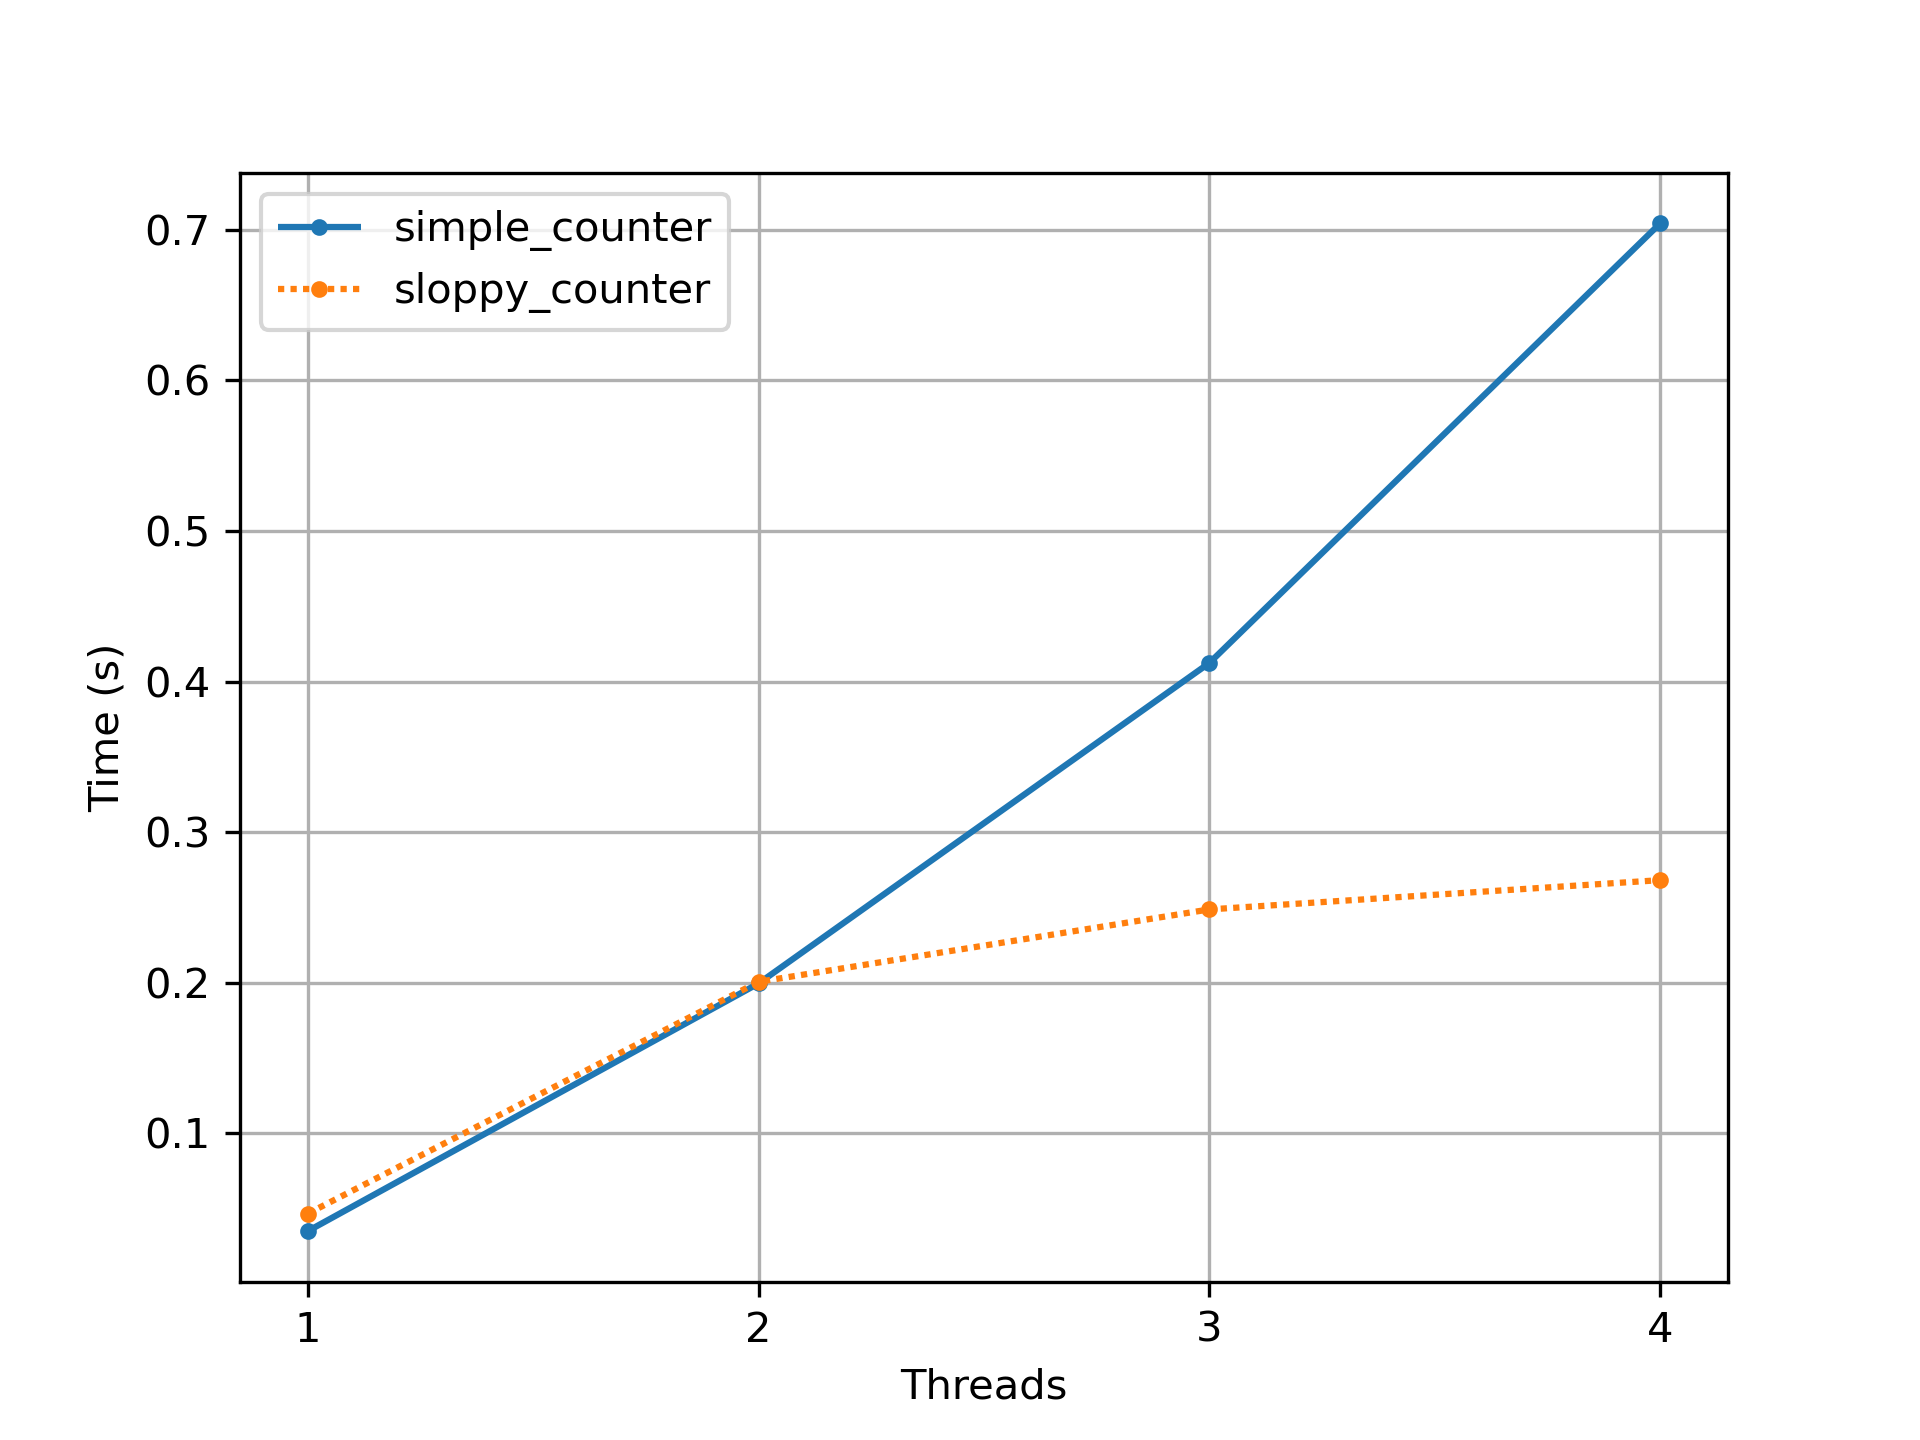
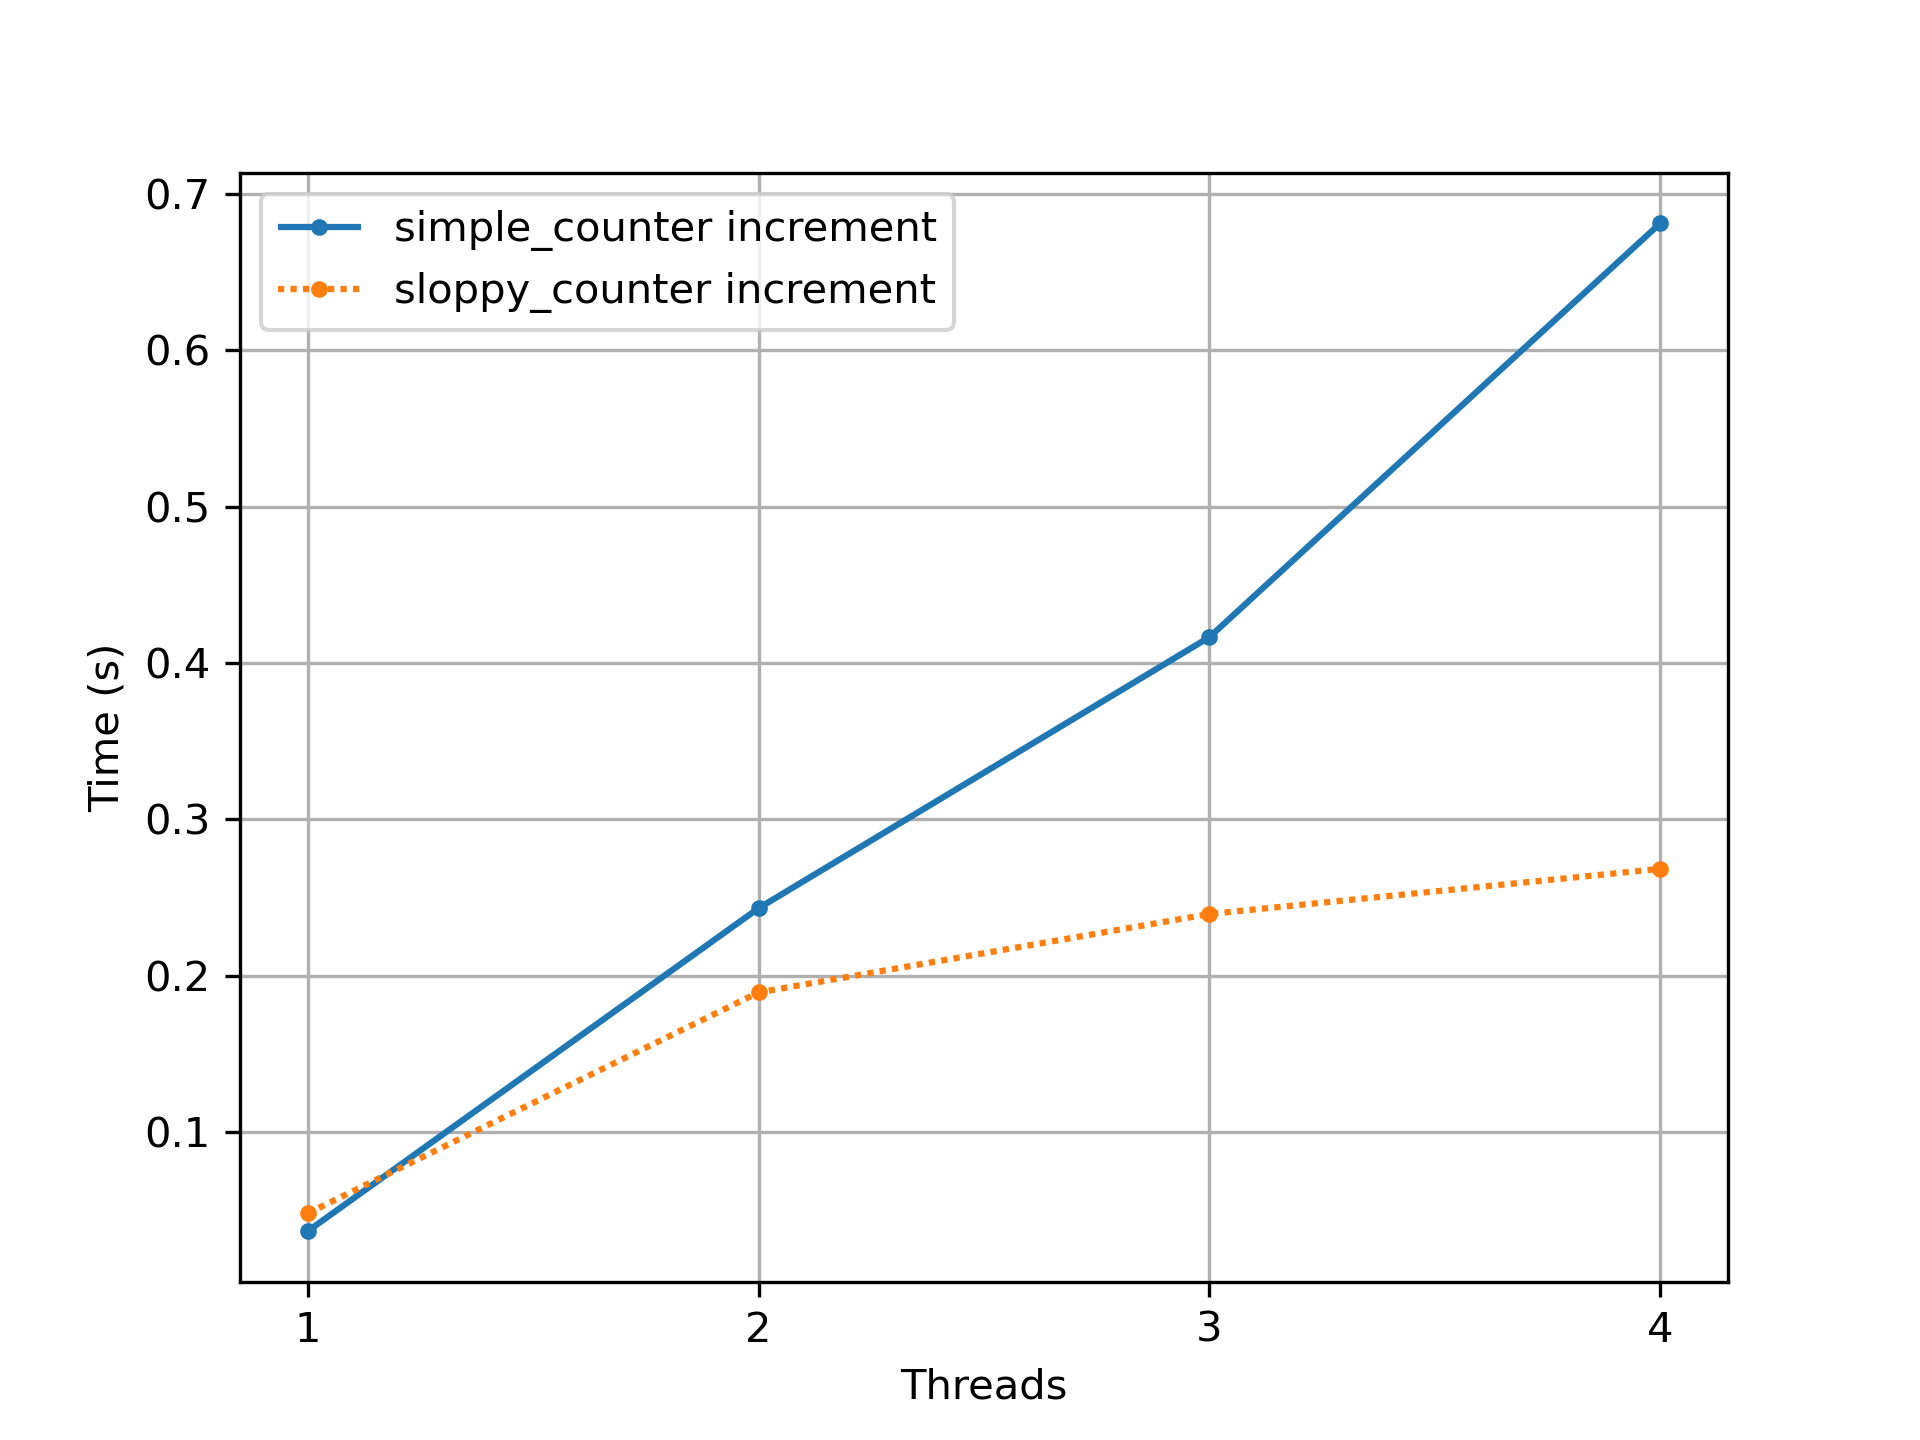
hw29: simple list time lookup + kwargs programs output

diff --git a/hw29-threads-locks-usage/simple_list.cpp b/hw29-threads-locks-usage/simple_list.cpp
@@ -55,9 +55,15 @@ private:
     int size_;
 };
 
-void worker(int threadID, SimpleList &list, int nloops) {
+void worker_insert(int threadID, SimpleList &list, int nloops) {
     for (int i = 0; i < nloops; ++i) {
         list.insert(i);
+    }
+}
+
+void worker_lookup(int threadID, SimpleList &list, int nloops) {
+    for (int i = 0; i < nloops; ++i) {
+        list.lookup(nloops - 11);
     }
 }
 
@@ -70,7 +76,13 @@ int main(int argc, char *argv[]) {
     auto nloops = std::stoi(argv[2]);
 
     SimpleList list;
-    auto elapsed_s = time_workers(nthreads, worker, std::ref(list), nloops);
-    std::cout << list.size() << " " << elapsed_s << std::endl;
+    auto elapsed = time_workers(nthreads, worker_insert, std::ref(list), nloops);
+    std::cout << "program=" << argv[0] << " op=insert"
+              << " nthreads=" << nthreads << " nloops=" << nloops
+              << " size=" << list.size() << " time=" << elapsed  << std::endl;
+    elapsed = time_workers(nthreads, worker_lookup, std::ref(list), nloops);
+    std::cout << "program=" << argv[0] << " op=lookup-10"
+              << " nthreads=" << nthreads << " nloops=" << nloops
+              << " size=" << list.size() << " time=" << elapsed  << std::endl;
     return 0;
 }

diff --git a/hw29-threads-locks-usage/plot_xthreads_ytime.py b/hw29-threads-locks-usage/plot_xthreads_ytime.py
@@ -6,20 +6,23 @@ from matplotlib import pyplot
 # retrieve data
 data = {}
 for line in sys.stdin:
-    line = line.split()
-    program = line[0]
-    nthreads = int(line[1])
-    result = float(line[3])
+    line = dict(kwarg.split('=') for kwarg in line.split())
+    program = f'{line["program"].split("/")[-1]} {line["op"]}'
+    nthreads = int(line['nthreads'])
+    time = float(line['time'])
+
     if program not in data:
         data[program] = {}
     if nthreads not in data[program]:
         data[program][nthreads] = []
-    data[program][nthreads].append(result)
+    data[program][nthreads].append(time)
+
+# sort by nthreads & average times
 for program, threads in data.items():
     data[program] = dict(sorted(threads.items()))
     data[program] = dict(
-        (thread, statistics.mean(results))
-        for thread, results in threads.items()
+        (thread, statistics.mean(times))
+        for thread, times in threads.items()
     )
 
 # plot data

diff --git a/hw29-threads-locks-usage/plot_xthreshold_ytime.py b/hw29-threads-locks-usage/plot_xthreshold_ytime.py
@@ -6,16 +6,19 @@ from matplotlib import pyplot
 # retrieve data
 data = {}
 for line in sys.stdin:
-    line = line.split()
-    threshold = int(line[0])
-    result = float(line[2])
+    line = dict(kwarg.split('=') for kwarg in line.split())
+    threshold = int(line['threshold'])
+    time = float(line['time'])
+
     if threshold not in data:
         data[threshold] = []
-    data[threshold].append(result)
+    data[threshold].append(time)
+
+# sort by threshold and average times
 data = dict(sorted(data.items()))
 data = dict(
-    (threshold, statistics.mean(results))
-    for threshold, results in data.items()
+    (threshold, statistics.mean(times))
+    for threshold, times in data.items()
 )
 
 # plot data

diff --git a/hw29-threads-locks-usage/sloppy_counter.cpp b/hw29-threads-locks-usage/sloppy_counter.cpp
@@ -61,10 +61,10 @@ int main(int argc, char *argv[]) {
     auto threshold = argc >= 4 ? std::stoi(argv[3]) : 1024;
 
     SloppyCounter counter(ncpus, threshold);
-    auto elapsed_s = time_workers(
-        nthreads, worker, ncpus, std::ref(counter), nloops
-    );
-
-    std::cout << counter.get() << " " << elapsed_s << std::endl;
+    auto elapsed = time_workers(nthreads, worker, ncpus, std::ref(counter), nloops);
+    std::cout << "program=" << argv[0] << " op=increment"
+              << " nthreads=" << nthreads << " nloops=" << nloops
+              << " threshold=" << threshold << " count=" << counter.get()
+              << " time=" << elapsed << std::endl;
     return 0;
 }

diff --git a/hw29-threads-locks-usage/simple_counter.cpp b/hw29-threads-locks-usage/simple_counter.cpp
@@ -40,7 +40,9 @@ int main(int argc, char *argv[]) {
     auto nloops = std::stoi(argv[2]);
 
     SimpleCounter counter;
-    auto elapsed_s = time_workers(nthreads, worker, std::ref(counter), nloops);
-    std::cout << counter.get() << " " << elapsed_s << std::endl;
+    auto elapsed = time_workers(nthreads, worker, std::ref(counter), nloops);
+    std::cout << "program=" << argv[0] << " op=increment"
+              << " nthreads=" << nthreads << " nloops=" << nloops
+              << " count=" << counter.get() << " time=" << elapsed  << std::endl;
     return 0;
 }
